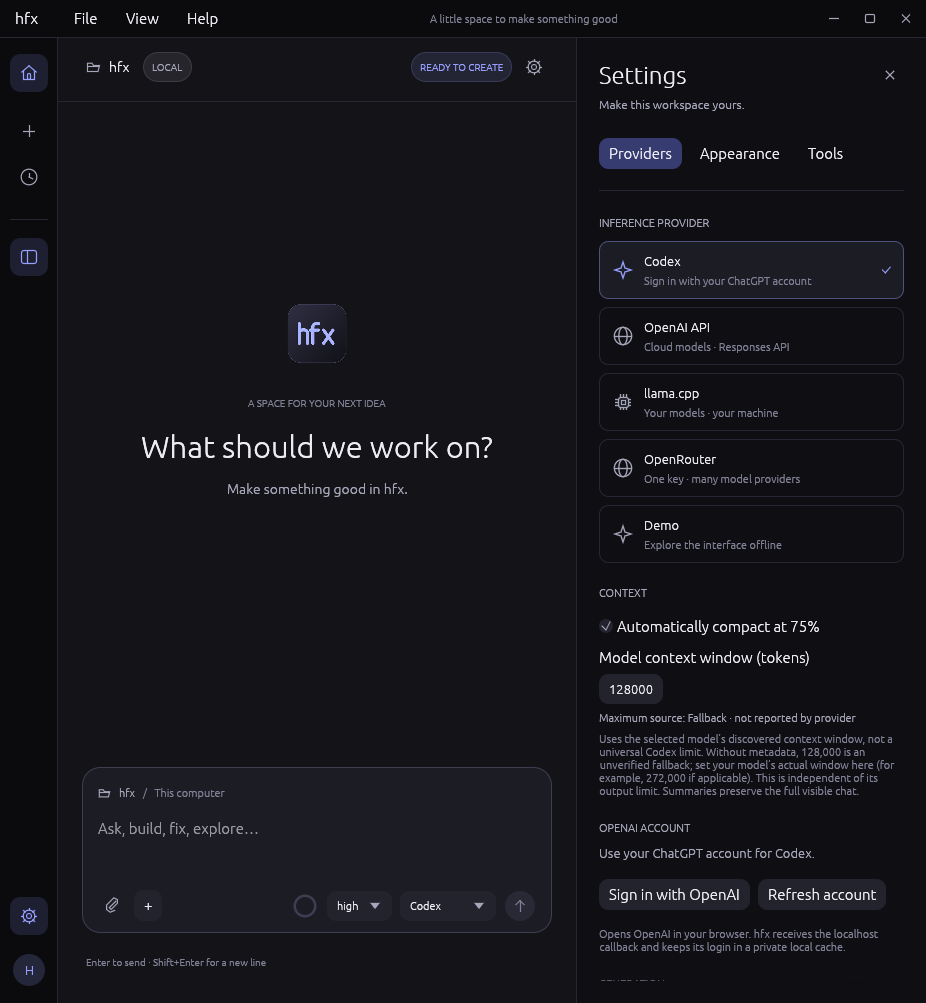
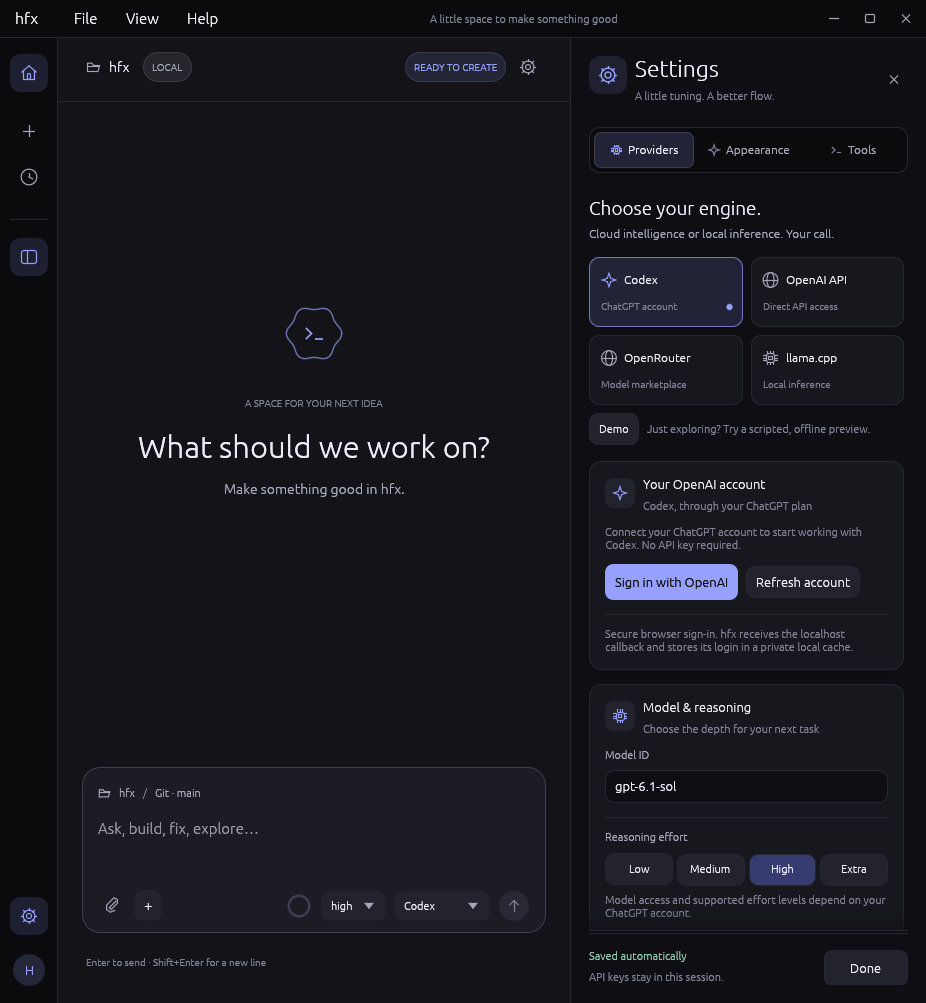
fix: restore the welcome mark and refresh README screenshots
Restore the original six-lobed terminal welcome mark with reduced-motion regression coverage and a small-window visual QA preview.

Regenerate the native welcome, tool-action, and Codex settings captures from isolated previews. Update README image descriptions, full-size links, and pending edit badge guidance.

diff --git a/src/theme.rs b/src/theme.rs
@@ -510,39 +510,29 @@ pub fn section(ui: &mut Ui, text: &str) {
     ui.add_space(3.0);
 }
 
-/// Reuse our own hfx monogram for welcome, window, and desktop branding.
+/// Original six-lobed welcome mark with a terminal glyph and optional breathing.
+/// Desktop and window icons continue to use the separate hfx monogram asset.
 pub fn logo(ui: &mut Ui, size: f32, time: f64, animated: bool) {
-    let id = egui::Id::new("hfx.brand-monogram");
-    let cached = ui
-        .ctx()
-        .data_mut(|data| data.get_temp::<egui::TextureHandle>(id));
-    let texture = cached.unwrap_or_else(|| {
-        let image = image::load_from_memory(include_bytes!("../assets/hfx.png"))
-            .expect("embedded hfx monogram")
-            .into_rgba8();
-        let pixels = egui::ColorImage::from_rgba_unmultiplied(
-            [image.width() as usize, image.height() as usize],
-            image.as_raw(),
-        );
-        let texture = ui
-            .ctx()
-            .load_texture("hfx-monogram", pixels, egui::TextureOptions::LINEAR);
-        ui.ctx()
-            .data_mut(|data| data.insert_temp(id, texture.clone()));
-        texture
-    });
     let (rect, _) = ui.allocate_exact_size(Vec2::splat(size), Sense::hover());
-    let scale = if animated {
-        0.96 + (time as f32 * 1.4).sin() * 0.02
+    let c = rect.center();
+    let breath = if animated {
+        (time as f32 * 1.4).sin() * 0.025
     } else {
-        0.96
+        0.0
     };
-    ui.painter().image(
-        texture.id(),
-        Rect::from_center_size(rect.center(), Vec2::splat(size * scale)),
-        Rect::from_min_max(Pos2::ZERO, pos2(1.0, 1.0)),
-        Color32::WHITE,
-    );
+    let r = size * (0.38 + breath);
+    let points = (0..=64)
+        .map(|i| {
+            let a = i as f32 * std::f32::consts::TAU / 64.0;
+            let radius = r * (1.0 + 0.075 * (a * 6.0).cos());
+            c + vec2(a.cos(), a.sin()) * radius
+        })
+        .collect();
+    ui.painter().add(egui::Shape::line(
+        points,
+        Stroke::new(1.5, ACCENT.gamma_multiply(0.65)),
+    ));
+    icon(ui.painter(), c, size * 0.4, Icon::Terminal, ACCENT);
 }
 
 pub fn markdown(ui: &mut Ui, text: &str, size: f32, color: Color32) {
@@ -553,51 +543,109 @@ pub fn markdown(ui: &mut Ui, text: &str, size: f32, color: Color32) {
 mod tests {
     use super::*;
 
-    #[test]
-    fn welcome_logo_uses_the_cached_hfx_asset_without_a_six_lobed_outline() {
+    fn welcome_logo_shapes(size: f32, time: f64, animated: bool, scale: f32) -> Vec<egui::Shape> {
         let ctx = egui::Context::default();
-        install(&ctx, 14.0, true);
-        let mut texture_id = None;
-        for (index, size) in [44.0, 64.0, 44.0].into_iter().enumerate() {
-            let mut output = ctx.run_ui(egui::RawInput::default(), |ui| {
-                logo(ui, size, index as f64, false);
-            });
-            let uploaded = output.textures_delta.set.clone();
-            output.textures_delta.clear();
-            let texture = ctx
-                .data_mut(|data| {
-                    data.get_temp::<egui::TextureHandle>(egui::Id::new("hfx.brand-monogram"))
-                })
-                .expect("hfx monogram is cached");
-            if let Some(id) = texture_id {
-                assert_eq!(texture.id(), id);
-                assert!(!uploaded.iter().any(|(id, _)| *id == texture.id()));
-            } else {
-                texture_id = Some(texture.id());
-                let updates = &uploaded
+        install(&ctx, 14.0, !animated);
+        ctx.set_pixels_per_point(scale);
+        let mut output = ctx.run_ui(egui::RawInput::default(), |ui| {
+            logo(ui, size, time, animated);
+        });
+        output.textures_delta.clear();
+        assert!(
+            ctx.data_mut(
+                |data| data.get_temp::<egui::TextureHandle>(egui::Id::new("hfx.brand-monogram"))
+            )
+            .is_none(),
+            "welcome must not load the desktop monogram"
+        );
+        let shapes: Vec<_> = output.shapes.into_iter().map(|shape| shape.shape).collect();
+        assert!(
+            !shapes
+                .iter()
+                .any(|shape| matches!(shape, egui::Shape::Mesh(_)))
+        );
+        shapes
+    }
+
+    fn welcome_outline(shapes: &[egui::Shape]) -> &egui::epaint::PathShape {
+        let outlines: Vec<_> = shapes
+            .iter()
+            .filter_map(|shape| match shape {
+                egui::Shape::Path(path) => Some(path),
+                _ => None,
+            })
+            .collect();
+        assert_eq!(outlines.len(), 1);
+        outlines[0]
+    }
+
+    #[test]
+    fn welcome_logo_matches_the_original_six_lobed_terminal_mark() {
+        for scale in [1.0, 1.5, 2.0] {
+            for size in [44.0, 64.0] {
+                let shapes = welcome_logo_shapes(size, 0.0, false, scale);
+                let outline = welcome_outline(&shapes);
+                assert_eq!(outline.points.len(), 65);
+                assert_eq!(outline.fill, Color32::TRANSPARENT);
+                assert_eq!(
+                    outline.stroke,
+                    Stroke::new(1.5, ACCENT.gamma_multiply(0.65)).into()
+                );
+                let center = outline.points[0].lerp(outline.points[32], 0.5);
+                for (index, point) in outline.points.iter().enumerate() {
+                    let angle = index as f32 * std::f32::consts::TAU / 64.0;
+                    let radius = size * 0.38 * (1.0 + 0.075 * (angle * 6.0).cos());
+                    let expected = center + vec2(angle.cos(), angle.sin()) * radius;
+                    assert!(
+                        point.distance(expected) < 0.001,
+                        "original outline geometry changed at size {size}, scale {scale}"
+                    );
+                }
+                assert!(outline.points[0].distance(outline.points[64]) < 0.001);
+                let segments: Vec<_> = shapes
                     .iter()
-                    .find(|(id, _)| **id == texture.id())
-                    .expect("monogram pixels are uploaded")
-                    .1;
-                let egui::ImageData::Color(pixels) = &updates[0].image;
-                let source = image::load_from_memory(include_bytes!("../assets/hfx.png"))
-                    .unwrap()
-                    .into_rgba8();
-                let expected = egui::ColorImage::from_rgba_unmultiplied(
-                    [source.width() as usize, source.height() as usize],
-                    source.as_raw(),
+                    .filter_map(|shape| match shape {
+                        egui::Shape::LineSegment { points, stroke } => Some((points, stroke)),
+                        _ => None,
+                    })
+                    .collect();
+                assert_eq!(
+                    segments.len(),
+                    3,
+                    "terminal glyph must contain its chevron and underscore"
                 );
-                assert!(
-                    pixels.pixels == expected.pixels,
-                    "uploaded pixels must match the premultiplied hfx asset"
-                );
+                let glyph_scale = size * 0.4 / 20.0;
+                for ((points, stroke), (start, end)) in segments.into_iter().zip([
+                    (vec2(-6.0, -4.0), vec2(-2.0, 0.0)),
+                    (vec2(-2.0, 0.0), vec2(-6.0, 4.0)),
+                    (vec2(1.0, 4.0), vec2(7.0, 4.0)),
+                ]) {
+                    assert!(points[0].distance(center + start * glyph_scale) < 0.001);
+                    assert!(points[1].distance(center + end * glyph_scale) < 0.001);
+                    assert_eq!(*stroke, Stroke::new(1.35 * glyph_scale.max(0.85), ACCENT));
+                }
             }
-            assert!(output.shapes.iter().any(|shape| matches!(&shape.shape, egui::Shape::Mesh(mesh) if mesh.texture_id == texture.id())));
+        }
+    }
+
+    #[test]
+    fn welcome_logo_breathes_only_when_motion_is_enabled() {
+        for size in [44.0, 64.0] {
+            let still = welcome_logo_shapes(size, 0.0, false, 1.0);
+            let later = welcome_logo_shapes(size, 10.0, false, 1.0);
+            assert_eq!(welcome_outline(&still), welcome_outline(&later));
+            let expanded = welcome_logo_shapes(size, std::f64::consts::FRAC_PI_2 / 1.4, true, 1.0);
+            let contracted =
+                welcome_logo_shapes(size, 3.0 * std::f64::consts::FRAC_PI_2 / 1.4, true, 1.0);
+            let diameter = |shapes: &[egui::Shape]| {
+                let path = welcome_outline(shapes);
+                path.points[0].distance(path.points[32])
+            };
+            assert!(diameter(&expanded) > diameter(&still));
+            assert!(diameter(&contracted) < diameter(&still));
             assert!(
-                !output
-                    .shapes
-                    .iter()
-                    .any(|shape| matches!(&shape.shape, egui::Shape::Path(_)))
+                diameter(&expanded) < size,
+                "breathing stays inside the allocated logo area"
             );
         }
     }

diff --git a/src/app/tests.rs b/src/app/tests.rs
@@ -1159,6 +1159,7 @@ fn export_headless_previews() {
         ("context-meter-hover", 1180, 820),
         ("welcome", 1180, 820),
         ("welcome", 1180, 600),
+        ("welcome", 720, 540),
         ("attachments", 1180, 820),
         ("question", 1180, 820),
         ("question", 720, 540),

diff --git a/docs/development.md b/docs/development.md
@@ -21,7 +21,7 @@ The tests cover:
 - **Tools and security:** paged file reads, workspace and optional sandbox boundaries, bounded command output, durable partial logs, process-group cancellation, Git pushes with preserved host identity/SSH setup, and web search/fetch with source replay.
 - **MCP:** explicit opt-in, configuration validation, collision-safe names, paginated discovery, stdio lifecycle, Streamable HTTP JSON/SSE, environment-based auth, timeouts without retries, images/structured results, and approvals with replay through every provider.
 - **Conversation state:** 75% context thresholds, bounded summaries, tool-safe compaction and checkpoint replay, summary failure safety, FIFO queues, safe-boundary steering, attachment replay, paused queue recovery, and interrupted-turn recovery.
-- **Images and UI:** Markdown link rendering, wrapped/Unicode link hit regions, click/keyboard activation, text-selection safety, hfx monogram reuse, image tool round trips, image-only replies, saved image context, keyboard handling, project/rename validation, chronological tool groups, independent disclosures, icon alignment, and layouts at two window sizes.
+- **Images and UI:** Markdown link rendering, wrapped/Unicode link hit regions, click/keyboard activation, text-selection safety, the original six-lobed terminal welcome mark and reduced-motion behavior, image tool round trips, image-only replies, saved image context, keyboard handling, project/rename validation, chronological tool groups, independent disclosures, icon alignment, and layouts at two window sizes.
 - **Lifecycle and desktop integration:** background saves with large histories, hidden-window logic, question timeouts, bounded event draining, Linux nonblocking VSync, localized launcher paths and ownership, installer updates, data-preserving uninstall, completion-alert batching and helper timeouts, final-save fences, bounded cleanup, atomic PNG export, and Git attribution settings/instructions.
 
 [Rust quality CI](../.github/workflows/checks.yml) enforces these checks on Linux for both Rust 1.95 (the minimum supported version) and stable. It provisions bubblewrap 0.12 for the actual sandbox regression tests and runs Linux/macOS installer filesystem fixtures. The separate native macOS workflow still validates the macOS release bundle. No quality checks are skipped because of a missing sandbox runner.
@@ -165,7 +165,7 @@ cargo test --locked demo_blender_mcp -- --ignored --nocapture
 - [`scripts/`](../scripts/): per-user Linux/macOS installers and uninstallers, shared ownership helpers, and the Linux portable bundle builder.
 - [`src/state.rs`](../src/state.rs): persisted models, provider settings, interrupted-turn recovery.
 - [`src/settings_ui.rs`](../src/settings_ui.rs): layered settings cards, provider tiles, switches, and shared form controls.
-- [`src/theme.rs`](../src/theme.rs): palette, hfx monogram, vector icons, and styled controls.
+- [`src/theme.rs`](../src/theme.rs): palette, original vector welcome mark, vector icons, and styled controls.
 - [`src/markdown.rs`](../src/markdown.rs): selectable Markdown, inline link parsing, wrapped link hit regions, and code-block copy controls.
 
 The Markdown view supports headings, bold spans, inline code, clickable HTTP/HTTPS links (including formatted link labels), fenced code with copy controls, and selectable text. Links open only after a click or keyboard activation; unsupported URL schemes and credential-bearing links are not activated. It is intentionally lightweight; full CommonMark tables and inline Markdown images are not yet implemented. Use `send_image` to return images as clickable thumbnails.

diff --git a/README.md b/README.md
@@ -4,7 +4,7 @@ A native coding harness built with **Rust + egui**. Work with **Codex, OpenAI AP
 
 [Quick start](#quick-start) · [Screenshots](#screenshots) · [Provider setup](docs/providers.md) · [Documentation](#documentation)
 
-![hfx welcome screen with a project sidebar, starter prompts, and chat composer](assets/screenshots/welcome.png)
+[![hfx welcome screen with the six-lobed terminal mark, project sidebar, starter prompts, and a Git-aware chat composer](assets/screenshots/welcome.png)](assets/screenshots/welcome.png)
 
 ## What it does
 
@@ -81,13 +81,15 @@ Chats and file context are saved locally in **plaintext**. API keys entered in s
 
 ## Screenshots
 
-These are native captures of **scripted previews**, not live model sessions. They contain no private chat history or login credentials. Click an image to view it at full size.
+Fresh native captures of the isolated **scripted previews**, not live model sessions. They show the current welcome mark, project Git branch indicator, tool activity, and provider settings without private chat history or login credentials. Click an image to view it at full size.
 
-| Tool activity and recorded file changes | Provider settings and Codex sign-in |
+| Tool activity and pending file changes | Provider settings and Codex sign-in |
 | --- | --- |
-| [![hfx conversation with a collapsible file-edit, read, and command history plus a file-change badge](assets/screenshots/actions.png)](assets/screenshots/actions.png) | [![hfx provider settings showing Codex, OpenAI API, llama.cpp, OpenRouter, Demo, and context-compaction controls](assets/screenshots/codex.png)](assets/screenshots/codex.png) |
+| [![hfx conversation with collapsed file-edit, read, and command history, a pending file-change badge, and the Git branch in the composer](assets/screenshots/actions.png)](assets/screenshots/actions.png) | [![hfx provider settings showing Codex, OpenAI API, OpenRouter, llama.cpp, Demo, OpenAI sign-in, and model and reasoning controls](assets/screenshots/codex.png)](assets/screenshots/codex.png) |
 
-The welcome screen is shown above. To reproduce all three images, see [Refresh README screenshots](docs/development.md#refresh-readme-screenshots).
+The welcome screen above features the six-lobed terminal mark, starter prompts, and project-aware composer. The file-change badge tracks pending file-tool edits; once Git reports a path clean after a commit or revert, background checks clear its badge while preserving its recorded diffs in the action history. See [pending edit badge behavior](docs/usage.md#pending-edit-badge).
+
+To reproduce all three images, see [Refresh README screenshots](docs/development.md#refresh-readme-screenshots).
 
 ## Shortcuts
 
